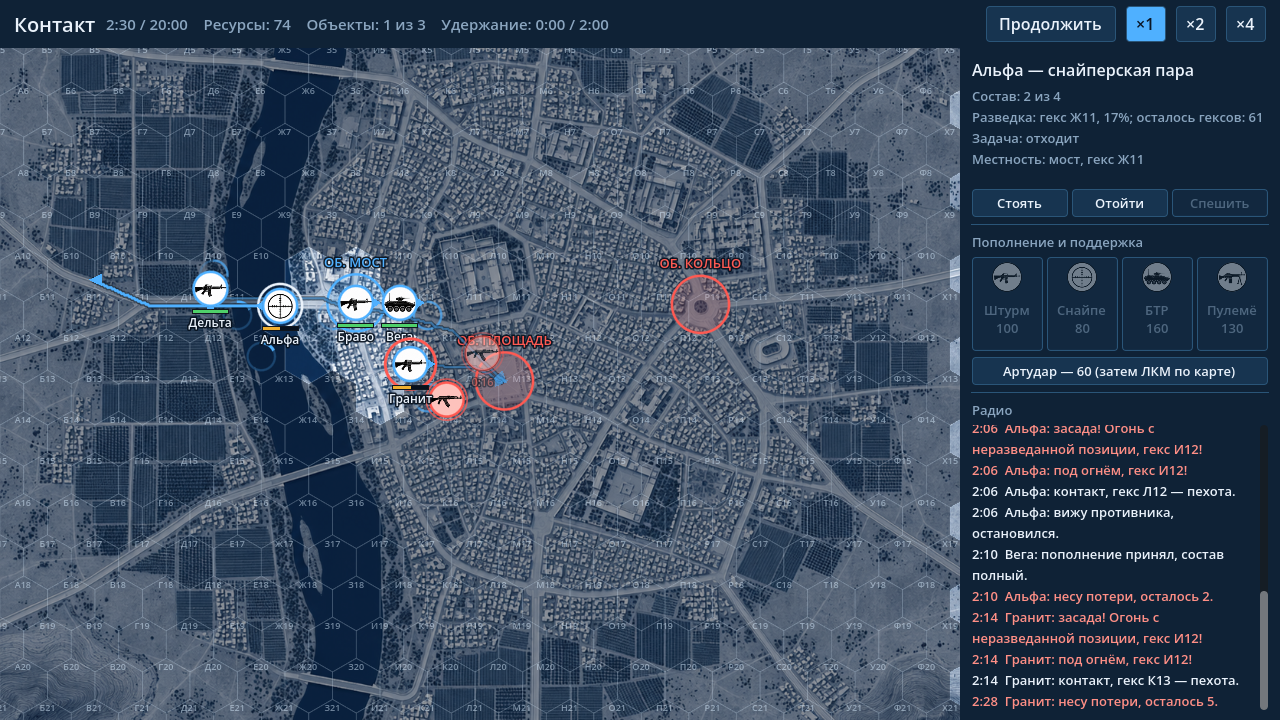
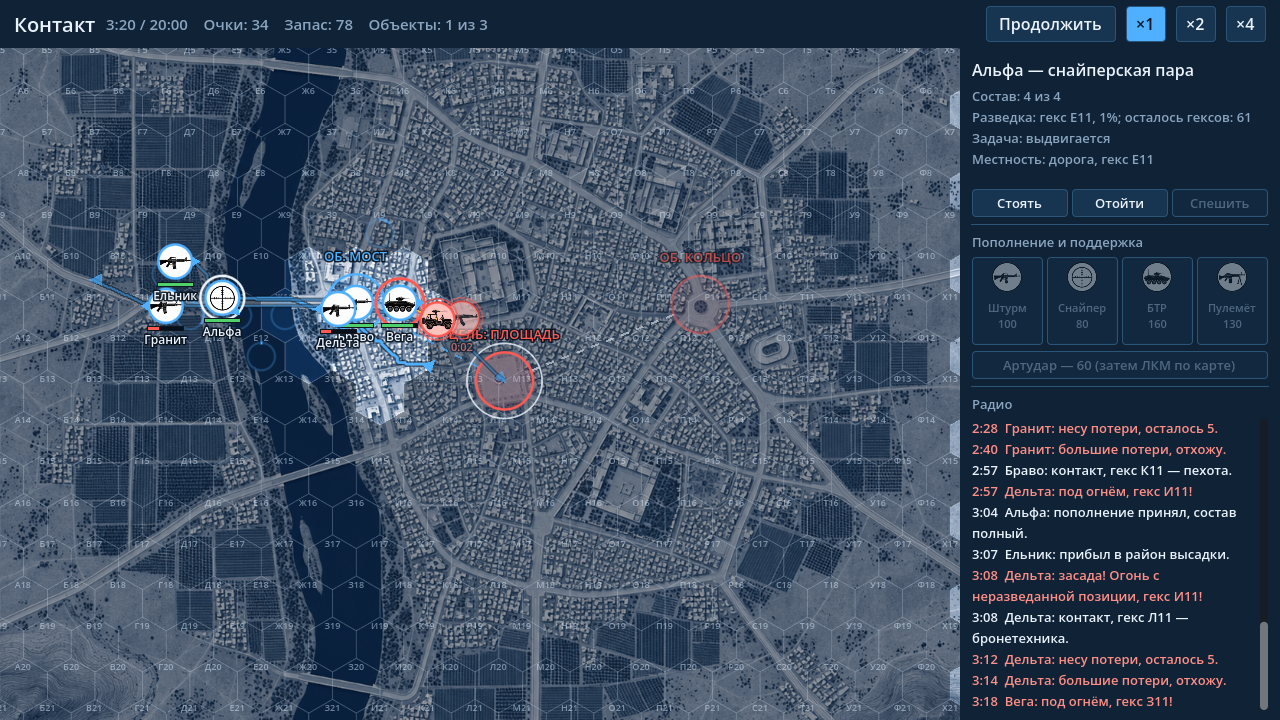
Take objectives in a chain and decide the mission by reserves
Objectives fall in order: the player can take only the first one he
does not hold, the enemy only the last one the player holds. Each side
has a reserve that shrinks with every man and every objective lost;
the side that runs out loses, and holding every objective drains the
enemy. Replaces the hold-two-for-two-minutes condition. The enemy's
reserve is tuned so that rushing loses and scouting wins about half.

diff --git a/docs/design.md b/docs/design.md
@@ -147,10 +147,27 @@
 - Состав меняется от миссии к миссии: какая точка усилена, где ходит патруль и что стоит
   в резерве, заранее неизвестно. Время от времени к противнику подходит подкрепление.
 
-## Победа и поражение
+## Цепочка объектов
 
-- Победа: удерживать две точки из трёх одновременно в течение двух минут.
-- Поражение: потеряны все отряды и не на что купить новый, или истекли 20 минут миссии.
+Объекты берутся по порядку, с запада на восток: «Мост», затем «Площадь», затем «Кольцо».
+Игрок может захватывать только первый объект, который ещё не его; противник может отбить
+только последний из взятых игроком. Так на карте всегда есть одна точка, за которую идёт
+бой. Устройство взято у режима Advance and Secure из Squad.
+
+## Запас, победа и поражение
+
+У каждой стороны есть запас — мера того, сколько потерь она может вынести. У игрока 100,
+у противника 150; запас противника игроку не показан до конца миссии.
+
+- Каждый потерянный боец отнимает 1 из запаса своей стороны.
+- Потеря объекта отнимает 15.
+- Пока игрок держит все объекты, запас противника убывает на 1 в секунду.
+- Победа: запас противника исчерпан.
+- Поражение: исчерпан свой запас, либо не осталось отрядов и очков на новые.
+- Если вышли 20 минут, побеждает тот, у кого осталось больше запаса.
+
+Запас — не то же, что очки. Очки тратятся на наём и поддержку; запас не тратится,
+а только теряется.
 
 ## Экран
 
@@ -178,10 +195,9 @@
 на пробу: `... -- 24 income=1.5`. Тест `test_balance_targets_hold` следит за тем, что
 выполняется сейчас.
 
-Результат на городской карте с гексами, 16 миссий: бездействие — 0%, напролом — 75%,
-разведка с артиллерией — 75%. Второе условие не выполнено. Автоматические игроки
-написаны до гексов и не умеют останавливаться, чтобы разведать гекс перед броском;
-по ним пока нельзя судить, окупается ли разведка.
+Результат на городской карте с гексами, цепочкой и запасом, 24 миссии: бездействие — 0%,
+напролом — 0%, разведка с артиллерией — 50%. Все три условия выполнены. Запас противника
+(150) подобран этим прогоном: при 110 разведка выигрывала в 88% миссий, при 190 — в 17%.
 
 Экран проверяется по скриншотам. Передаёт ли игра ощущение командования вслепую
 и не раздражают ли свои отряды, решает владелец по живой партии.
@@ -197,4 +213,5 @@
 - добавлено восполнение потерь в районе высадки: без него отход не имел смысла;
 - карта заменена на городскую, нарисованную владельцем; гарнизоны удвоены;
 - дома стали препятствиями, техника ездит только там, где владелец закрасил карту красным;
-- добавлено правило засады, чтобы разведка окупалась в городском бою.
+- добавлено правило засады, чтобы разведка окупалась в городском бою;
+- условие «удержать два объекта две минуты» заменено цепочкой объектов и запасом сторон.
